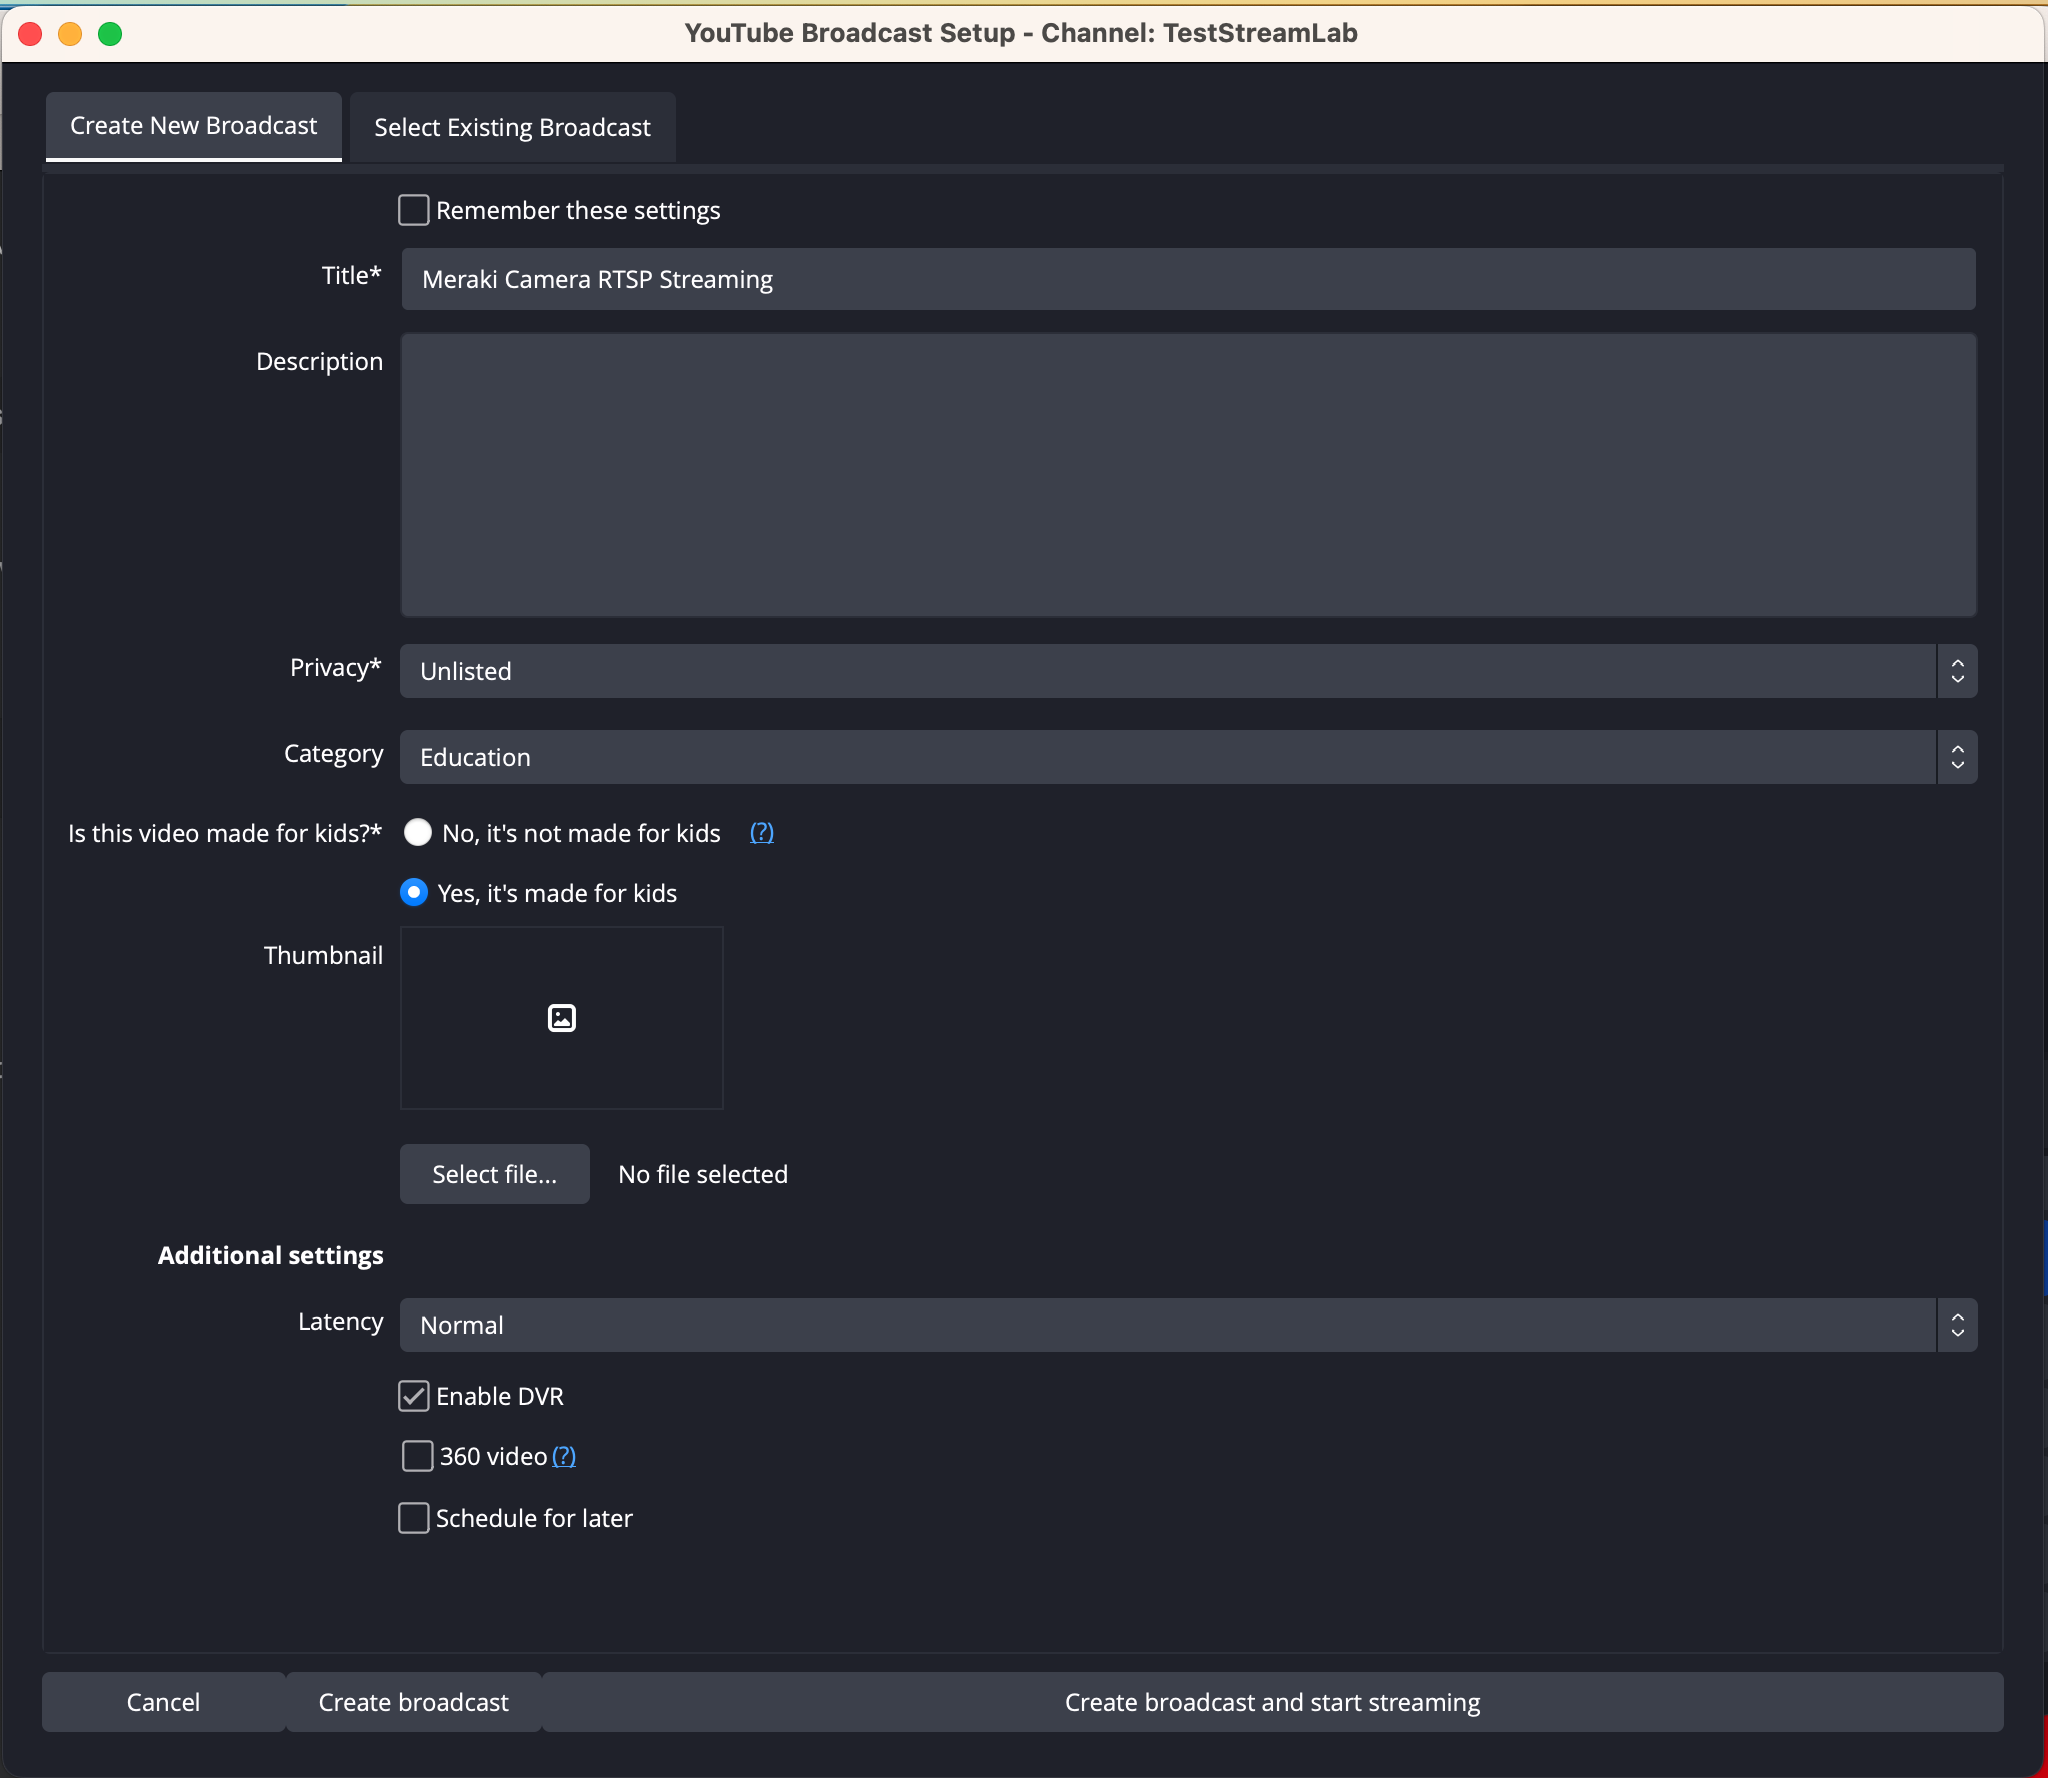
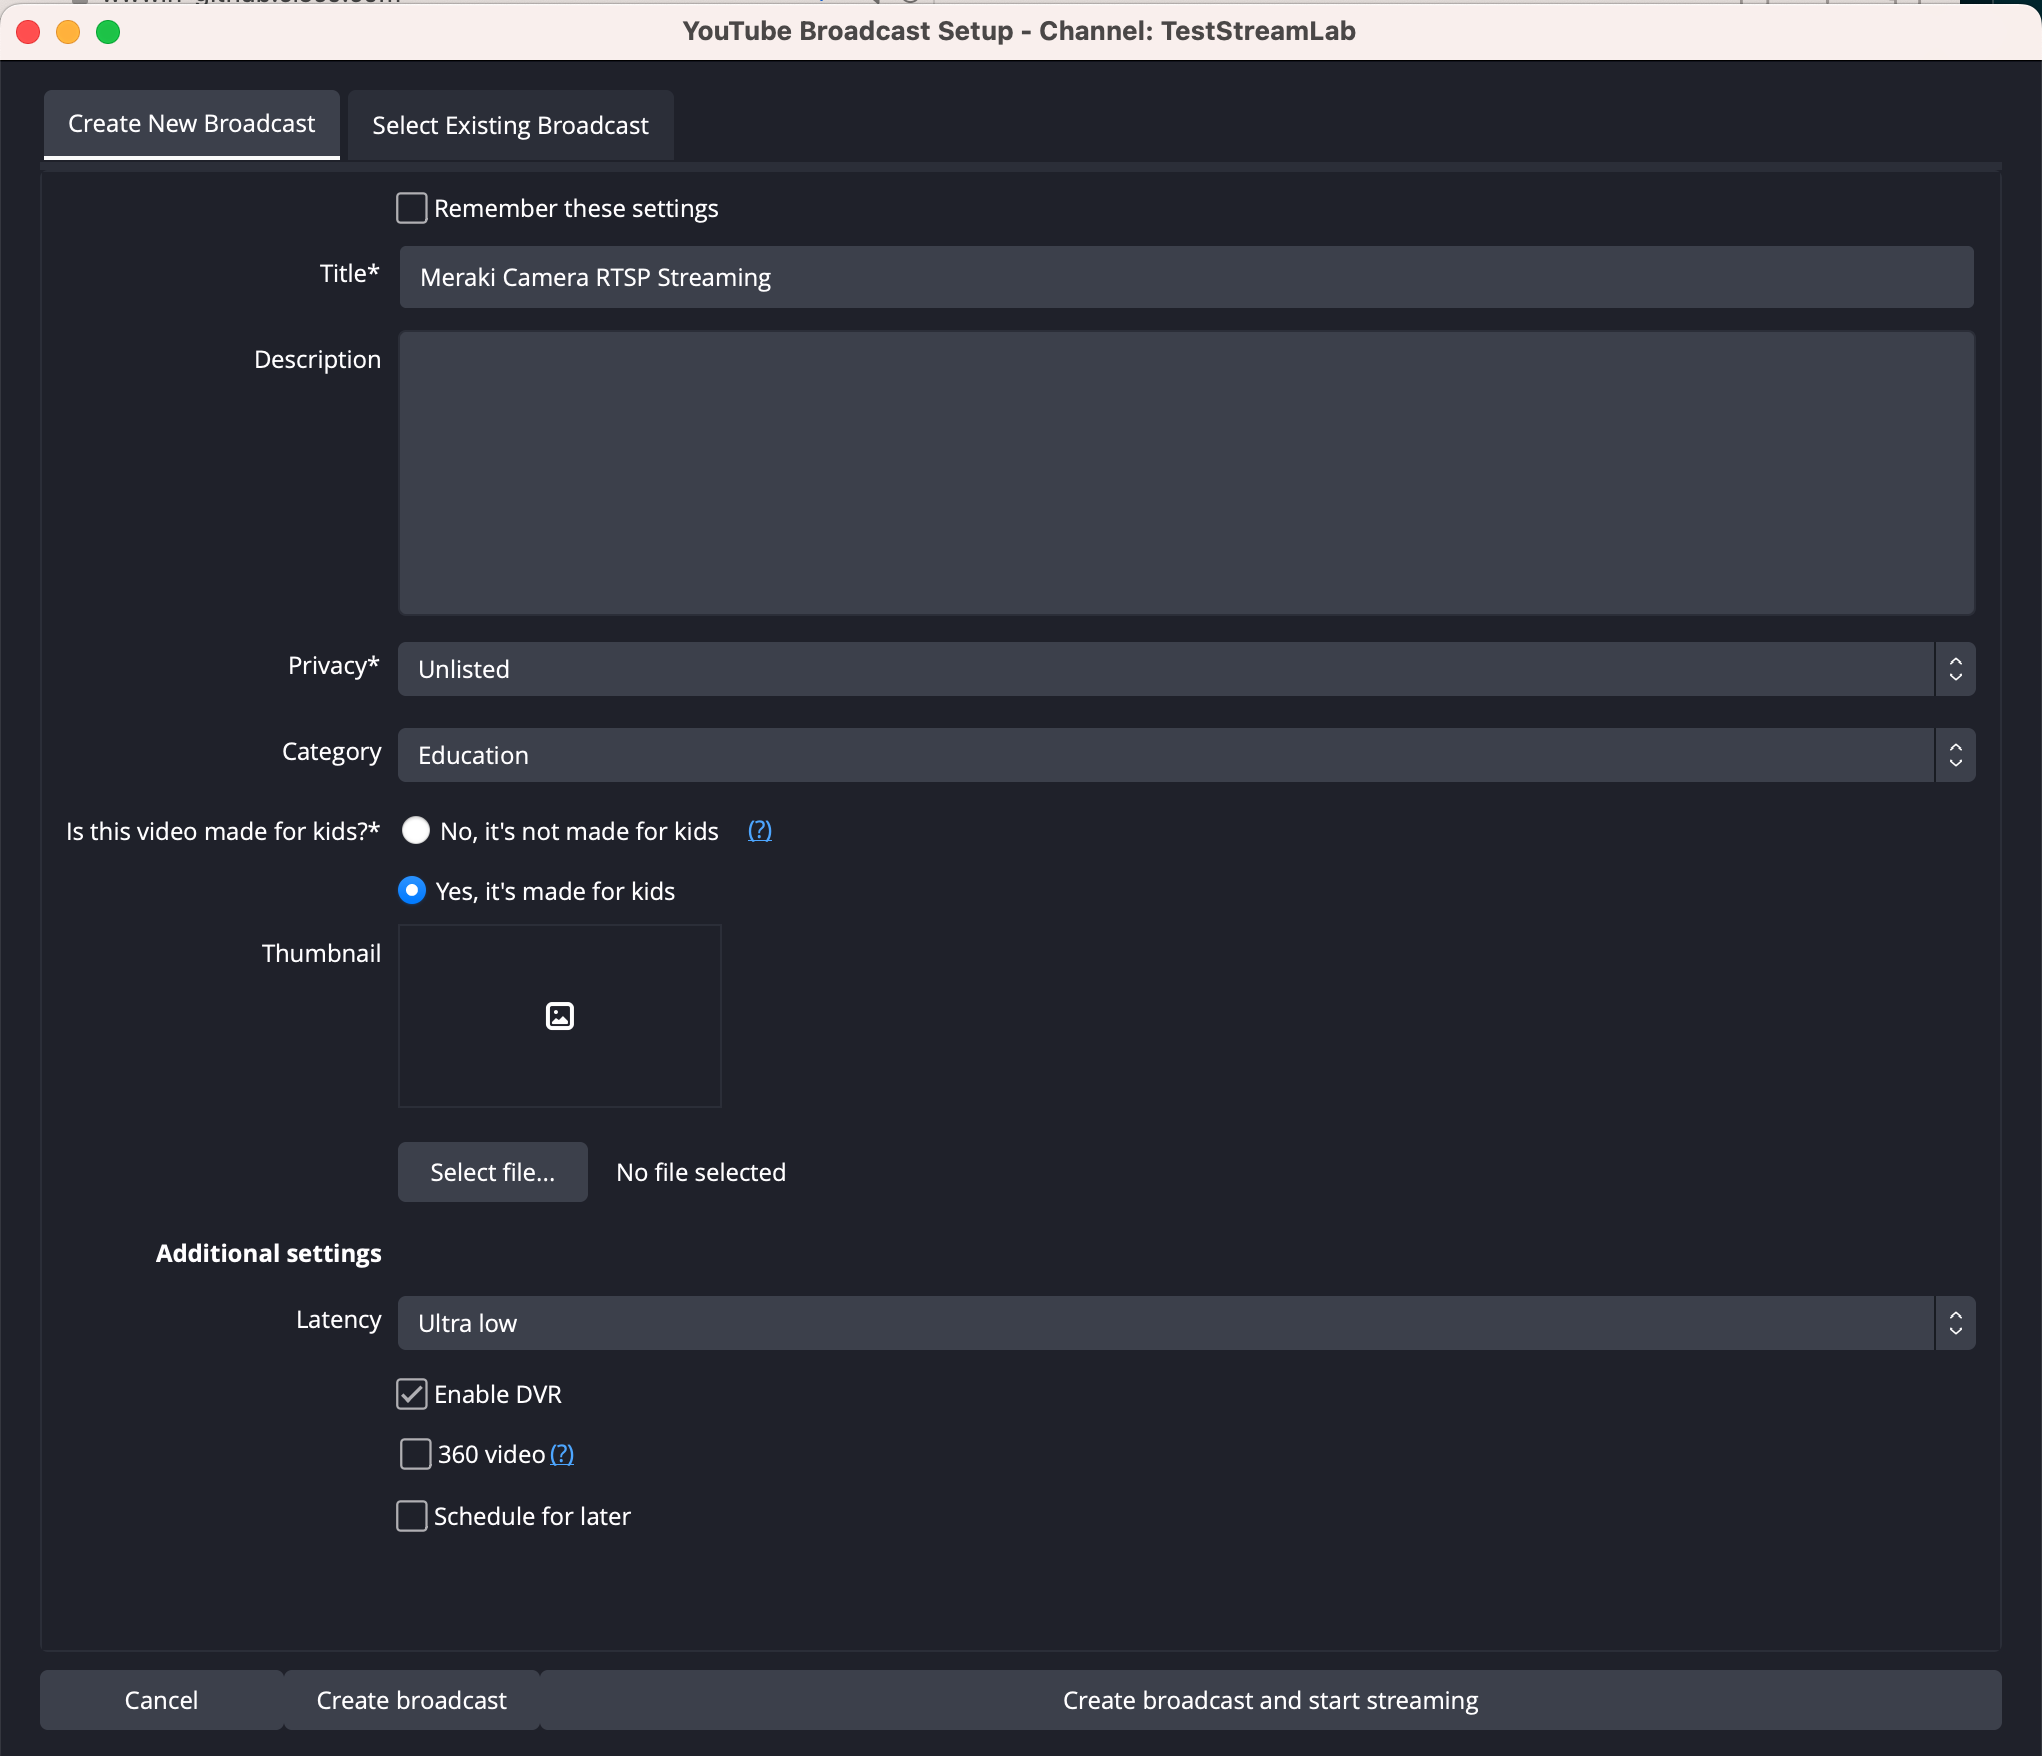
Baselined from internal Repository last_commit:c30ef81230a28213bd9f28e51c666a2cab08d1dc

diff --git a/README.md b/README.md
@@ -121,11 +121,17 @@ In OBS,
 ### Create Broadcast/Stream (in YouTube) via OBS
 The following steps will create a stream/broadcast in YouTube Studio from within OBS.   
 In OBS:
-1. In the **Controls** panel: Click **Manage Broadcast**. 
-![contols](./IMAGES/startstreamingbutton.png) 
-2. In the **Create New Broadcast** tab: Fill in the information related to the YouTube broadcast/stream to create. To embed the YouTube stream into an external website, stream privacy needs to be “unlisted” or “public”.
-![createnewbroadcast](./IMAGES/createnewbroadcast.png)
-3. Click **Create broadcast and start streaming**
+
+1.  In the **Controls** panel:   
+![contols](./IMAGES/startstreamingbutton.png)   
+2. (Optional for reduced delay) Click **Settings**:
+* Click **Advanced** in local menu > Disable the **Stream Delay** feature and enable the **Automatically Reconnect** feature with the minimum **Retry Delay** value.
+* Click **Video** in local menu: Make sure that the **Base (Canvas) Resolution** and **Output (Scaled) Resolution** fields have the same value. Select a high value for the **Common FPS Values** field, e.g. 60. 
+* Click **OK**
+3. Click **Manage Broadcast** in the **Controls** Panel. 
+4. In the **Create New Broadcast** tab: Fill in the information related to the YouTube broadcast/stream to create. To embed the YouTube stream into an external website, stream privacy needs to be “unlisted” or “public”. (Optional for reduced delay) Set the field **Latency** in the **Additional settings** section to **Ultra Low** or **Low**.   
+![createnewbroadcast](./IMAGES/createnewbroadcast.png)   
+5. Click **Create broadcast and start streaming**
 
 > Note: Unlisted videos can be seen and shared by anyone with the link. They won’t appear to others who visit the "Videos" tab of your channel page and shouldn't show up in YouTube's search results unless someone adds an Unlisted video to a Public playlist. However, they are not Private. 
 
